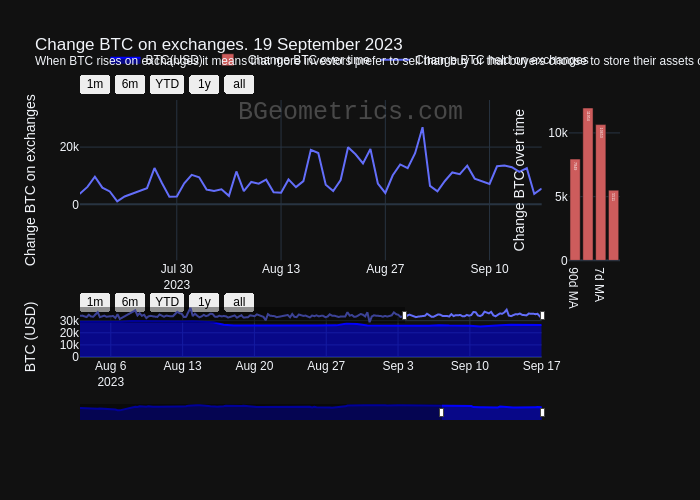
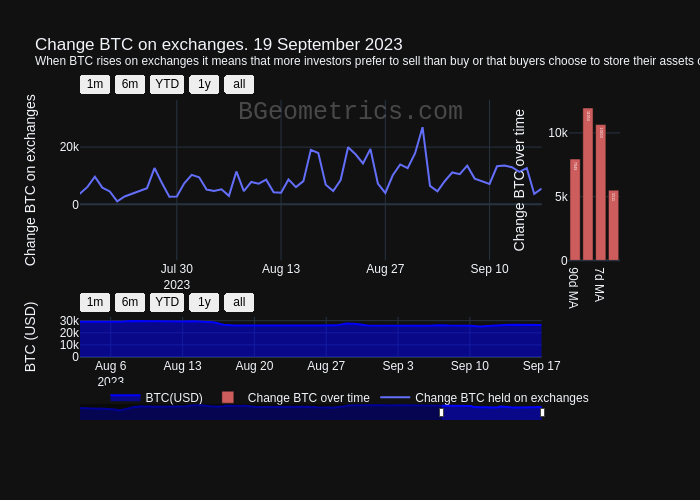
daily

diff --git a/reports/bitcoin_ex_change_held_g.html b/reports/bitcoin_ex_change_held_g.html
@@ -1,2 +1,2 @@
 <div>                        <script type="text/javascript">window.PlotlyConfig = {MathJaxConfig: 'local'};</script>
-        <script charset="utf-8" src="https://cdn.plot.ly/plotly-2.24.1.min.js"></script>                <div id="b3dcbfd8-20d9-45b3-9ce2-d98115b88011" class="plotly-graph-div" style="height:100%; width:100%;"></div>            <script type="text/javascript">                                    window.PLOTLYENV=window.PLOTLYENV || {};                                    if (document.getElementById("b3dcbfd8-20d9-45b3-9ce2-d98115b88011")) {                    Plotly.newPlot(                        "b3dcbfd8-20d9-45b3-9ce2-d98115b88011",                        [{"mode":"lines","name":"Change BTC held on exchanges","x":["2023-02-20","2023-02-21","2023-02-22","2023-02-23","2023-02-24","2023-02-25","2023-02-26","2023-02-27","2023-02-28","2023-03-01","2023-03-02","2023-03-03","2023-03-04","2023-03-05","2023-03-06","2023-03-07","2023-03-08","2023-03-09","2023-03-10","2023-03-17","2023-03-18","2023-03-19","2023-03-20","2023-03-21","2023-03-22","2023-03-23","2023-03-24","2023-03-25","2023-03-27","2023-03-28","2023-03-29","2023-03-30","2023-03-31","2023-04-01","2023-04-02","2023-04-03","2023-04-04","2023-04-05","2023-04-06","2023-04-07","2023-04-08","2023-04-09","2023-04-10","2023-04-11","2023-04-12","2023-04-13","2023-04-14","2023-04-15","2023-04-16","2023-04-17","2023-04-18","2023-04-19","2023-04-20","2023-04-21","2023-04-22","2023-04-23","2023-04-24","2023-04-25","2023-04-26","2023-04-27","2023-04-28","2023-04-29","2023-04-30","2023-05-01","2023-05-02","2023-05-03","2023-05-04","2023-05-05","2023-05-06","2023-05-07","2023-05-08","2023-05-09","2023-05-10","2023-05-11","2023-05-12","2023-05-13","2023-05-14","2023-05-15","2023-05-16","2023-05-17","2023-05-18","2023-05-19","2023-05-20","2023-05-21","2023-05-22","2023-05-23","2023-05-24","2023-05-25","2023-05-26","2023-05-27","2023-05-28","2023-05-29","2023-05-30","2023-05-31","2023-06-01","2023-06-02","2023-06-03","2023-06-04","2023-06-05","2023-06-06","2023-06-07","2023-06-08","2023-06-09","2023-06-10","2023-06-11","2023-06-12","2023-06-13","2023-06-14","2023-06-15","2023-06-16","2023-06-17","2023-06-18","2023-06-19","2023-06-20","2023-06-21","2023-06-22","2023-06-23","2023-06-24","2023-06-25","2023-06-26","2023-06-27","2023-06-28","2023-06-29","2023-06-30","2023-07-01","2023-07-02","2023-07-03","2023-07-04","2023-07-05","2023-07-06","2023-07-07","2023-07-08","2023-07-09","2023-07-10","2023-07-11","2023-07-12","2023-07-13","2023-07-14","2023-07-15","2023-07-16","2023-07-17","2023-07-18","2023-07-19","2023-07-20","2023-07-21","2023-07-22","2023-07-23","2023-07-26","2023-07-27","2023-07-28","2023-07-29","2023-07-30","2023-07-31","2023-08-01","2023-08-02","2023-08-03","2023-08-04","2023-08-05","2023-08-06","2023-08-07","2023-08-08","2023-08-09","2023-08-10","2023-08-11","2023-08-12","2023-08-13","2023-08-14","2023-08-15","2023-08-16","2023-08-17","2023-08-18","2023-08-19","2023-08-20","2023-08-21","2023-08-22","2023-08-23","2023-08-24","2023-08-25","2023-08-26","2023-08-27","2023-08-28","2023-08-29","2023-08-30","2023-08-31","2023-09-01","2023-09-02","2023-09-03","2023-09-04","2023-09-05","2023-09-06","2023-09-07","2023-09-08","2023-09-10","2023-09-11","2023-09-12","2023-09-13","2023-09-14","2023-09-15","2023-09-16","2023-09-17"],"y":[5722,6270,3678,1191,9278,3140,2488,9933,18496,911,3222,6138,2284,4274,4302,4739,-1738,10979,-5412,24616,7012,14682,5628,9233,-2466,3772,5538,3812,1691,10042,4944,2303,6298,4383,3750,3758,13056,19636,14679,13132,1176,1925,18903,33641,4471,13088,6092,397,3604,8847,4406,7050,13028,11785,2746,1885,6012,3461,4828,4050,-483,1438,3326,6828,-787,2696,7541,-470,1444,901,7251,5849,4300,10582,7004,3240,1962,-10130,11378,6062,5989,4386,794,2156,4220,4142,7072,8436,449,11906,1941,906,10122,7111,5253,6405,3419,153,6607,4322,7146,3627,5376,5407,705,2944,10752,6174,6183,2463,1537,3260,2264,3255,18305,6183,8499,2217,2958,7362,11979,9200,3455,17972,-16766,3074,7505,5771,5839,5032,2454,5183,3117,3821,7059,17575,11353,9062,1524,3457,3766,6084,9663,5837,4511,1057,2735,5647,12674,7455,2624,2740,7363,10279,9471,5177,4633,5263,2965,11480,4582,7809,7237,8622,4241,4050,8706,6024,8109,19037,17906,6882,4627,8491,19941,17477,14265,19343,7254,3964,10153,13947,12656,17876,26938,6438,4524,8159,11138,10554,13502,8993,7124,13300,13545,12964,11373,12635,3636,5511],"type":"scatter","xaxis":"x","yaxis":"y"},{"marker":{"color":"indianred"},"name":"Change BTC over time","text":["7949","11954","10653","5511"],"x":["90d MA","30d MA","7d MA","Today"],"y":[7949,11954,10653,5511],"type":"bar","xaxis":"x2","yaxis":"y2"},{"fill":"tonexty","marker":{"color":"blue"},"mode":"lines","name":"BTC(USD)","x":["2023-02-20","2023-02-21","2023-02-22","2023-02-23","2023-02-24","2023-02-25","2023-02-26","2023-02-27","2023-02-28","2023-03-01","2023-03-02","2023-03-03","2023-03-04","2023-03-05","2023-03-06","2023-03-07","2023-03-08","2023-03-09","2023-03-10","2023-03-17","2023-03-18","2023-03-19","2023-03-20","2023-03-21","2023-03-22","2023-03-23","2023-03-24","2023-03-25","2023-03-27","2023-03-28","2023-03-29","2023-03-30","2023-03-31","2023-04-01","2023-04-02","2023-04-03","2023-04-04","2023-04-05","2023-04-06","2023-04-07","2023-04-08","2023-04-09","2023-04-10","2023-04-11","2023-04-12","2023-04-13","2023-04-14","2023-04-15","2023-04-16","2023-04-17","2023-04-18","2023-04-19","2023-04-20","2023-04-21","2023-04-22","2023-04-23","2023-04-24","2023-04-25","2023-04-26","2023-04-27","2023-04-28","2023-04-29","2023-04-30","2023-05-01","2023-05-02","2023-05-03","2023-05-04","2023-05-05","2023-05-06","2023-05-07","2023-05-08","2023-05-09","2023-05-10","2023-05-11","2023-05-12","2023-05-13","2023-05-14","2023-05-15","2023-05-16","2023-05-17","2023-05-18","2023-05-19","2023-05-20","2023-05-21","2023-05-22","2023-05-23","2023-05-24","2023-05-25","2023-05-26","2023-05-27","2023-05-28","2023-05-29","2023-05-30","2023-05-31","2023-06-01","2023-06-02","2023-06-03","2023-06-04","2023-06-05","2023-06-06","2023-06-07","2023-06-08","2023-06-09","2023-06-10","2023-06-11","2023-06-12","2023-06-13","2023-06-14","2023-06-15","2023-06-16","2023-06-17","2023-06-18","2023-06-19","2023-06-20","2023-06-21","2023-06-22","2023-06-23","2023-06-24","2023-06-25","2023-06-26","2023-06-27","2023-06-28","2023-06-29","2023-06-30","2023-07-01","2023-07-02","2023-07-03","2023-07-04","2023-07-05","2023-07-06","2023-07-07","2023-07-08","2023-07-09","2023-07-10","2023-07-11","2023-07-12","2023-07-13","2023-07-14","2023-07-15","2023-07-16","2023-07-17","2023-07-18","2023-07-19","2023-07-20","2023-07-21","2023-07-22","2023-07-23","2023-07-26","2023-07-27","2023-07-28","2023-07-29","2023-07-30","2023-07-31","2023-08-01","2023-08-02","2023-08-03","2023-08-04","2023-08-05","2023-08-06","2023-08-07","2023-08-08","2023-08-09","2023-08-10","2023-08-11","2023-08-12","2023-08-13","2023-08-14","2023-08-15","2023-08-16","2023-08-17","2023-08-18","2023-08-19","2023-08-20","2023-08-21","2023-08-22","2023-08-23","2023-08-24","2023-08-25","2023-08-26","2023-08-27","2023-08-28","2023-08-29","2023-08-30","2023-08-31","2023-09-01","2023-09-02","2023-09-03","2023-09-04","2023-09-05","2023-09-06","2023-09-07","2023-09-08","2023-09-10","2023-09-11","2023-09-12","2023-09-13","2023-09-14","2023-09-15","2023-09-16","2023-09-17"],"y":[24797.8430359439,24400.3893898305,24163.7389812975,23910.0342104033,23175.8242036821,23159.8154403857,23542.0964281122,23504.1894178843,23145.9491277031,23610.6590902981,23470.0254815897,22350.0962340736,22334.2852638808,22419.8171390999,22414.7033056692,22174.6484725307,21701.3846227352,20349.8141732905,19951.37,27450.6282933957,26985.7359915254,28185.2043319696,27834.3361090006,28172.7950558153,27341.5571297487,28387.8897495617,27464.1249453536,27518.62,27154.9963702513,27283.9634029807,28389.2917784921,28021.5583009936,28514.6813062537,28494.5638863238,28161.9980362361,27850.9799436002,28113.9585187025,28190.3116063705,28049.0744763296,27936.8042609585,27964.0512498539,28357.8072703098,29687.5651846873,30247.0959193454,29913.0035463472,30370.82207218,30458.9700414962,30342.0591084161,30312.9308533022,29469.5050727645,30366.8723813559,28796.7440952659,28251.2763790181,27292.0211052016,27827.5475920514,27604.6855742256,27520.1996729982,28302.6942180012,28384.2340333139,29465.5514272355,29350.811886616,29221.5145075979,29362.0867974868,28114.9531873174,28690.5809959088,29045.0427735243,28855.8574465225,29552.9695236704,28899.4629602572,28761.738434249,27727.2854091175,27642.4281092928,27646.004902104,26986.271065751,26773.3443591467,26841.3982913501,26918.261597896,27231.6216052016,27025.7181864407,27401.0440610754,26843.2350938048,26889.503631502,27100.8582878434,26777.0977831677,26858.7370637054,27226.8558763881,26341.4306446522,26484.8359234366,26720.3838071303,26854.5403702513,28097.5211259497,27765.0728693746,27712.4915844535,27217.6832580362,26825.3713451198,27255.2279941555,27079.4084643483,27158.25456955,25785.8514842198,27213.7705187025,26339.5790292227,26521.693600526,26470.6775780245,25863.2138506721,25906.8281516657,25906.7519354179,25880.8599734074,25097.5853796026,25559.1433293396,26331.8200943892,26514.1713495032,26353.962682934,26778.0634415547,28305.4204573349,30099.5153509643,29952.5112866745,30638.3537644652,30549.0162872589,30467.4403705435,30255.8861241964,30656.2,30104.0432717709,30460.792978083,30484.503257744,30581.6889655172,30594.2164736996,31135.3575993571,30799.9474558738,30497.8221282876,29979.7298094681,30329.8829786674,30263.6196341321,30163.2210563998,30394.6555806546,30616.247094097,30385.6087852133,31434.7354704851,30310.6720204559,30290.8905958504,30249.7729658095,30143.7462744009,29835.7474076563,29913.0294646406,29805.6065707189,29919.6934921099,29726.0096271186,29882.43,29361.5917580362,29201.6865175336,29316.3130751023,29360.376179135,29262.8367337814,29219.8201887785,29499.5875385739,29143.1519620105,29192.3448617767,29057.2532437171,29053.0956975453,29048.0433275862,29164.3585873758,29779.511383986,29582.9442375804,29430.1599117475,29399.784739626,29415.733902104,29286.1176110462,29408.9717127411,29167.59721654,28754.2924079486,26660.5627264757,26037.3658474576,26093.981808007,26176.4721642315,26128.9050160725,25978.2096914085,26452.1935882525,26126.7943331385,26040.881255114,26006.1740800701,26086.3612594974,26103.2765730567,27672.2221306254,27298.997779661,25954.8665935126,25802.7885298071,25868.2960976037,25962.5475689655,25799.5256870251,25782.3622200468,25754.7902676797,26210.6045637054,25904.6982127411,25856.26,25135.0393781414,25859.7018068381,26226.8667524839,26556.056943308,26672.6160818235,26555.6361031561,26502.4321189363],"type":"scatter","xaxis":"x3","yaxis":"y3"}],                        {"template":{"data":{"barpolar":[{"marker":{"line":{"color":"rgb(17,17,17)","width":0.5},"pattern":{"fillmode":"overlay","size":10,"solidity":0.2}},"type":"barpolar"}],"bar":[{"error_x":{"color":"#f2f5fa"},"error_y":{"color":"#f2f5fa"},"marker":{"line":{"color":"rgb(17,17,17)","width":0.5},"pattern":{"fillmode":"overlay","size":10,"solidity":0.2}},"type":"bar"}],"carpet":[{"aaxis":{"endlinecolor":"#A2B1C6","gridcolor":"#506784","linecolor":"#506784","minorgridcolor":"#506784","startlinecolor":"#A2B1C6"},"baxis":{"endlinecolor":"#A2B1C6","gridcolor":"#506784","linecolor":"#506784","minorgridcolor":"#506784","startlinecolor":"#A2B1C6"},"type":"carpet"}],"choropleth":[{"colorbar":{"outlinewidth":0,"ticks":""},"type":"choropleth"}],"contourcarpet":[{"colorbar":{"outlinewidth":0,"ticks":""},"type":"contourcarpet"}],"contour":[{"colorbar":{"outlinewidth":0,"ticks":""},"colorscale":[[0.0,"#0d0887"],[0.1111111111111111,"#46039f"],[0.2222222222222222,"#7201a8"],[0.3333333333333333,"#9c179e"],[0.4444444444444444,"#bd3786"],[0.5555555555555556,"#d8576b"],[0.6666666666666666,"#ed7953"],[0.7777777777777778,"#fb9f3a"],[0.8888888888888888,"#fdca26"],[1.0,"#f0f921"]],"type":"contour"}],"heatmapgl":[{"colorbar":{"outlinewidth":0,"ticks":""},"colorscale":[[0.0,"#0d0887"],[0.1111111111111111,"#46039f"],[0.2222222222222222,"#7201a8"],[0.3333333333333333,"#9c179e"],[0.4444444444444444,"#bd3786"],[0.5555555555555556,"#d8576b"],[0.6666666666666666,"#ed7953"],[0.7777777777777778,"#fb9f3a"],[0.8888888888888888,"#fdca26"],[1.0,"#f0f921"]],"type":"heatmapgl"}],"heatmap":[{"colorbar":{"outlinewidth":0,"ticks":""},"colorscale":[[0.0,"#0d0887"],[0.1111111111111111,"#46039f"],[0.2222222222222222,"#7201a8"],[0.3333333333333333,"#9c179e"],[0.4444444444444444,"#bd3786"],[0.5555555555555556,"#d8576b"],[0.6666666666666666,"#ed7953"],[0.7777777777777778,"#fb9f3a"],[0.8888888888888888,"#fdca26"],[1.0,"#f0f921"]],"type":"heatmap"}],"histogram2dcontour":[{"colorbar":{"outlinewidth":0,"ticks":""},"colorscale":[[0.0,"#0d0887"],[0.1111111111111111,"#46039f"],[0.2222222222222222,"#7201a8"],[0.3333333333333333,"#9c179e"],[0.4444444444444444,"#bd3786"],[0.5555555555555556,"#d8576b"],[0.6666666666666666,"#ed7953"],[0.7777777777777778,"#fb9f3a"],[0.8888888888888888,"#fdca26"],[1.0,"#f0f921"]],"type":"histogram2dcontour"}],"histogram2d":[{"colorbar":{"outlinewidth":0,"ticks":""},"colorscale":[[0.0,"#0d0887"],[0.1111111111111111,"#46039f"],[0.2222222222222222,"#7201a8"],[0.3333333333333333,"#9c179e"],[0.4444444444444444,"#bd3786"],[0.5555555555555556,"#d8576b"],[0.6666666666666666,"#ed7953"],[0.7777777777777778,"#fb9f3a"],[0.8888888888888888,"#fdca26"],[1.0,"#f0f921"]],"type":"histogram2d"}],"histogram":[{"marker":{"pattern":{"fillmode":"overlay","size":10,"solidity":0.2}},"type":"histogram"}],"mesh3d":[{"colorbar":{"outlinewidth":0,"ticks":""},"type":"mesh3d"}],"parcoords":[{"line":{"colorbar":{"outlinewidth":0,"ticks":""}},"type":"parcoords"}],"pie":[{"automargin":true,"type":"pie"}],"scatter3d":[{"line":{"colorbar":{"outlinewidth":0,"ticks":""}},"marker":{"colorbar":{"outlinewidth":0,"ticks":""}},"type":"scatter3d"}],"scattercarpet":[{"marker":{"colorbar":{"outlinewidth":0,"ticks":""}},"type":"scattercarpet"}],"scattergeo":[{"marker":{"colorbar":{"outlinewidth":0,"ticks":""}},"type":"scattergeo"}],"scattergl":[{"marker":{"line":{"color":"#283442"}},"type":"scattergl"}],"scattermapbox":[{"marker":{"colorbar":{"outlinewidth":0,"ticks":""}},"type":"scattermapbox"}],"scatterpolargl":[{"marker":{"colorbar":{"outlinewidth":0,"ticks":""}},"type":"scatterpolargl"}],"scatterpolar":[{"marker":{"colorbar":{"outlinewidth":0,"ticks":""}},"type":"scatterpolar"}],"scatter":[{"marker":{"line":{"color":"#283442"}},"type":"scatter"}],"scatterternary":[{"marker":{"colorbar":{"outlinewidth":0,"ticks":""}},"type":"scatterternary"}],"surface":[{"colorbar":{"outlinewidth":0,"ticks":""},"colorscale":[[0.0,"#0d0887"],[0.1111111111111111,"#46039f"],[0.2222222222222222,"#7201a8"],[0.3333333333333333,"#9c179e"],[0.4444444444444444,"#bd3786"],[0.5555555555555556,"#d8576b"],[0.6666666666666666,"#ed7953"],[0.7777777777777778,"#fb9f3a"],[0.8888888888888888,"#fdca26"],[1.0,"#f0f921"]],"type":"surface"}],"table":[{"cells":{"fill":{"color":"#506784"},"line":{"color":"rgb(17,17,17)"}},"header":{"fill":{"color":"#2a3f5f"},"line":{"color":"rgb(17,17,17)"}},"type":"table"}]},"layout":{"annotationdefaults":{"arrowcolor":"#f2f5fa","arrowhead":0,"arrowwidth":1},"autotypenumbers":"strict","coloraxis":{"colorbar":{"outlinewidth":0,"ticks":""}},"colorscale":{"diverging":[[0,"#8e0152"],[0.1,"#c51b7d"],[0.2,"#de77ae"],[0.3,"#f1b6da"],[0.4,"#fde0ef"],[0.5,"#f7f7f7"],[0.6,"#e6f5d0"],[0.7,"#b8e186"],[0.8,"#7fbc41"],[0.9,"#4d9221"],[1,"#276419"]],"sequential":[[0.0,"#0d0887"],[0.1111111111111111,"#46039f"],[0.2222222222222222,"#7201a8"],[0.3333333333333333,"#9c179e"],[0.4444444444444444,"#bd3786"],[0.5555555555555556,"#d8576b"],[0.6666666666666666,"#ed7953"],[0.7777777777777778,"#fb9f3a"],[0.8888888888888888,"#fdca26"],[1.0,"#f0f921"]],"sequentialminus":[[0.0,"#0d0887"],[0.1111111111111111,"#46039f"],[0.2222222222222222,"#7201a8"],[0.3333333333333333,"#9c179e"],[0.4444444444444444,"#bd3786"],[0.5555555555555556,"#d8576b"],[0.6666666666666666,"#ed7953"],[0.7777777777777778,"#fb9f3a"],[0.8888888888888888,"#fdca26"],[1.0,"#f0f921"]]},"colorway":["#636efa","#EF553B","#00cc96","#ab63fa","#FFA15A","#19d3f3","#FF6692","#B6E880","#FF97FF","#FECB52"],"font":{"color":"#f2f5fa"},"geo":{"bgcolor":"rgb(17,17,17)","lakecolor":"rgb(17,17,17)","landcolor":"rgb(17,17,17)","showlakes":true,"showland":true,"subunitcolor":"#506784"},"hoverlabel":{"align":"left"},"hovermode":"closest","mapbox":{"style":"dark"},"paper_bgcolor":"rgb(17,17,17)","plot_bgcolor":"rgb(17,17,17)","polar":{"angularaxis":{"gridcolor":"#506784","linecolor":"#506784","ticks":""},"bgcolor":"rgb(17,17,17)","radialaxis":{"gridcolor":"#506784","linecolor":"#506784","ticks":""}},"scene":{"xaxis":{"backgroundcolor":"rgb(17,17,17)","gridcolor":"#506784","gridwidth":2,"linecolor":"#506784","showbackground":true,"ticks":"","zerolinecolor":"#C8D4E3"},"yaxis":{"backgroundcolor":"rgb(17,17,17)","gridcolor":"#506784","gridwidth":2,"linecolor":"#506784","showbackground":true,"ticks":"","zerolinecolor":"#C8D4E3"},"zaxis":{"backgroundcolor":"rgb(17,17,17)","gridcolor":"#506784","gridwidth":2,"linecolor":"#506784","showbackground":true,"ticks":"","zerolinecolor":"#C8D4E3"}},"shapedefaults":{"line":{"color":"#f2f5fa"}},"sliderdefaults":{"bgcolor":"#C8D4E3","bordercolor":"rgb(17,17,17)","borderwidth":1,"tickwidth":0},"ternary":{"aaxis":{"gridcolor":"#506784","linecolor":"#506784","ticks":""},"baxis":{"gridcolor":"#506784","linecolor":"#506784","ticks":""},"bgcolor":"rgb(17,17,17)","caxis":{"gridcolor":"#506784","linecolor":"#506784","ticks":""}},"title":{"x":0.05},"updatemenudefaults":{"bgcolor":"#506784","borderwidth":0},"xaxis":{"automargin":true,"gridcolor":"#283442","linecolor":"#506784","ticks":"","title":{"standoff":15},"zerolinecolor":"#283442","zerolinewidth":2},"yaxis":{"automargin":true,"gridcolor":"#283442","linecolor":"#506784","ticks":"","title":{"standoff":15},"zerolinecolor":"#283442","zerolinewidth":2}}},"xaxis":{"anchor":"y","domain":[0.0,0.855],"rangeselector":{"font":{"color":"black"},"buttons":[{"count":1,"label":"1m","step":"month","stepmode":"backward"},{"count":6,"label":"6m","step":"month","stepmode":"backward"},{"count":1,"label":"YTD","step":"year","stepmode":"todate"},{"count":1,"label":"1y","step":"year","stepmode":"backward"},{"step":"all"}]},"rangeslider":{"visible":true,"thickness":0.05},"range":["2023-07-17","2023-09-17"]},"yaxis":{"anchor":"x","domain":[0.376,1.0],"title":{"text":"Change BTC on exchanges"},"side":"left"},"xaxis2":{"anchor":"y2","domain":[0.905,1.0]},"yaxis2":{"anchor":"x2","domain":[0.376,1.0],"title":{"text":"Change BTC over time"},"side":"left"},"xaxis3":{"anchor":"y3","domain":[0.0,0.855],"rangeselector":{"font":{"color":"black"},"buttons":[{"count":1,"label":"1m","step":"month","stepmode":"backward"},{"count":6,"label":"6m","step":"month","stepmode":"backward"},{"count":1,"label":"YTD","step":"year","stepmode":"todate"},{"count":1,"label":"1y","step":"year","stepmode":"backward"},{"step":"all"}]},"rangeslider":{"visible":true,"thickness":0.05},"range":["2023-08-03","2023-09-17"]},"yaxis3":{"anchor":"x3","domain":[0.0,0.15600000000000003],"title":{"text":"BTC (USD)"},"side":"left"},"xaxis4":{"anchor":"y4","domain":[0.905,1.0]},"yaxis4":{"anchor":"x4","domain":[0.0,0.15600000000000003]},"annotations":[{"font":{"color":"grey","family":"Courier New, monospace","size":25},"opacity":0.5,"showarrow":false,"text":"\u003ca href='https:\u002f\u002fcharts.bgeometrics.com'\u003eBGeometrics.com\u003c\u002fa\u003e","x":0.5,"xanchor":"center","xref":"paper","y":0.95,"yanchor":"middle","yref":"paper"}],"legend":{"orientation":"h","x":0.5,"xanchor":"center"},"title":{"text":"Change BTC on exchanges. 19 September 2023\u003cbr\u003e\u003csup\u003eWhen BTC rises on exchanges it means that more investors prefer to sell than buy or that buyers choose to store their assets on exchanges.\u003c\u002fsup\u003e"},"plot_bgcolor":"rgba(0, 0, 0, 0)"},                        {"responsive": true}                    )                };                            </script>        </div>
+        <script charset="utf-8" src="https://cdn.plot.ly/plotly-2.24.1.min.js"></script>                <div id="560bbb13-3abd-487d-9b3f-f98b40661f9d" class="plotly-graph-div" style="height:100%; width:100%;"></div>            <script type="text/javascript">                                    window.PLOTLYENV=window.PLOTLYENV || {};                                    if (document.getElementById("560bbb13-3abd-487d-9b3f-f98b40661f9d")) {                    Plotly.newPlot(                        "560bbb13-3abd-487d-9b3f-f98b40661f9d",                        [{"mode":"lines","name":"Change BTC held on exchanges","x":["2023-02-20","2023-02-21","2023-02-22","2023-02-23","2023-02-24","2023-02-25","2023-02-26","2023-02-27","2023-02-28","2023-03-01","2023-03-02","2023-03-03","2023-03-04","2023-03-05","2023-03-06","2023-03-07","2023-03-08","2023-03-09","2023-03-10","2023-03-17","2023-03-18","2023-03-19","2023-03-20","2023-03-21","2023-03-22","2023-03-23","2023-03-24","2023-03-25","2023-03-27","2023-03-28","2023-03-29","2023-03-30","2023-03-31","2023-04-01","2023-04-02","2023-04-03","2023-04-04","2023-04-05","2023-04-06","2023-04-07","2023-04-08","2023-04-09","2023-04-10","2023-04-11","2023-04-12","2023-04-13","2023-04-14","2023-04-15","2023-04-16","2023-04-17","2023-04-18","2023-04-19","2023-04-20","2023-04-21","2023-04-22","2023-04-23","2023-04-24","2023-04-25","2023-04-26","2023-04-27","2023-04-28","2023-04-29","2023-04-30","2023-05-01","2023-05-02","2023-05-03","2023-05-04","2023-05-05","2023-05-06","2023-05-07","2023-05-08","2023-05-09","2023-05-10","2023-05-11","2023-05-12","2023-05-13","2023-05-14","2023-05-15","2023-05-16","2023-05-17","2023-05-18","2023-05-19","2023-05-20","2023-05-21","2023-05-22","2023-05-23","2023-05-24","2023-05-25","2023-05-26","2023-05-27","2023-05-28","2023-05-29","2023-05-30","2023-05-31","2023-06-01","2023-06-02","2023-06-03","2023-06-04","2023-06-05","2023-06-06","2023-06-07","2023-06-08","2023-06-09","2023-06-10","2023-06-11","2023-06-12","2023-06-13","2023-06-14","2023-06-15","2023-06-16","2023-06-17","2023-06-18","2023-06-19","2023-06-20","2023-06-21","2023-06-22","2023-06-23","2023-06-24","2023-06-25","2023-06-26","2023-06-27","2023-06-28","2023-06-29","2023-06-30","2023-07-01","2023-07-02","2023-07-03","2023-07-04","2023-07-05","2023-07-06","2023-07-07","2023-07-08","2023-07-09","2023-07-10","2023-07-11","2023-07-12","2023-07-13","2023-07-14","2023-07-15","2023-07-16","2023-07-17","2023-07-18","2023-07-19","2023-07-20","2023-07-21","2023-07-22","2023-07-23","2023-07-26","2023-07-27","2023-07-28","2023-07-29","2023-07-30","2023-07-31","2023-08-01","2023-08-02","2023-08-03","2023-08-04","2023-08-05","2023-08-06","2023-08-07","2023-08-08","2023-08-09","2023-08-10","2023-08-11","2023-08-12","2023-08-13","2023-08-14","2023-08-15","2023-08-16","2023-08-17","2023-08-18","2023-08-19","2023-08-20","2023-08-21","2023-08-22","2023-08-23","2023-08-24","2023-08-25","2023-08-26","2023-08-27","2023-08-28","2023-08-29","2023-08-30","2023-08-31","2023-09-01","2023-09-02","2023-09-03","2023-09-04","2023-09-05","2023-09-06","2023-09-07","2023-09-08","2023-09-10","2023-09-11","2023-09-12","2023-09-13","2023-09-14","2023-09-15","2023-09-16","2023-09-17"],"y":[5722,6270,3678,1191,9278,3140,2488,9933,18496,911,3222,6138,2284,4274,4302,4739,-1738,10979,-5412,24616,7012,14682,5628,9233,-2466,3772,5538,3812,1691,10042,4944,2303,6298,4383,3750,3758,13056,19636,14679,13132,1176,1925,18903,33641,4471,13088,6092,397,3604,8847,4406,7050,13028,11785,2746,1885,6012,3461,4828,4050,-483,1438,3326,6828,-787,2696,7541,-470,1444,901,7251,5849,4300,10582,7004,3240,1962,-10130,11378,6062,5989,4386,794,2156,4220,4142,7072,8436,449,11906,1941,906,10122,7111,5253,6405,3419,153,6607,4322,7146,3627,5376,5407,705,2944,10752,6174,6183,2463,1537,3260,2264,3255,18305,6183,8499,2217,2958,7362,11979,9200,3455,17972,-16766,3074,7505,5771,5839,5032,2454,5183,3117,3821,7059,17575,11353,9062,1524,3457,3766,6084,9663,5837,4511,1057,2735,5647,12674,7455,2624,2740,7363,10279,9471,5177,4633,5263,2965,11480,4582,7809,7237,8622,4241,4050,8706,6024,8109,19037,17906,6882,4627,8491,19941,17477,14265,19343,7254,3964,10153,13947,12656,17876,26938,6438,4524,8159,11138,10554,13502,8993,7124,13300,13545,12964,11373,12635,3636,5511],"type":"scatter","xaxis":"x","yaxis":"y"},{"marker":{"color":"indianred"},"name":"Change BTC over time","text":["7949","11954","10653","5511"],"x":["90d MA","30d MA","7d MA","Today"],"y":[7949,11954,10653,5511],"type":"bar","xaxis":"x2","yaxis":"y2"},{"fill":"tonexty","marker":{"color":"blue"},"mode":"lines","name":"BTC(USD)","x":["2023-02-20","2023-02-21","2023-02-22","2023-02-23","2023-02-24","2023-02-25","2023-02-26","2023-02-27","2023-02-28","2023-03-01","2023-03-02","2023-03-03","2023-03-04","2023-03-05","2023-03-06","2023-03-07","2023-03-08","2023-03-09","2023-03-10","2023-03-17","2023-03-18","2023-03-19","2023-03-20","2023-03-21","2023-03-22","2023-03-23","2023-03-24","2023-03-25","2023-03-27","2023-03-28","2023-03-29","2023-03-30","2023-03-31","2023-04-01","2023-04-02","2023-04-03","2023-04-04","2023-04-05","2023-04-06","2023-04-07","2023-04-08","2023-04-09","2023-04-10","2023-04-11","2023-04-12","2023-04-13","2023-04-14","2023-04-15","2023-04-16","2023-04-17","2023-04-18","2023-04-19","2023-04-20","2023-04-21","2023-04-22","2023-04-23","2023-04-24","2023-04-25","2023-04-26","2023-04-27","2023-04-28","2023-04-29","2023-04-30","2023-05-01","2023-05-02","2023-05-03","2023-05-04","2023-05-05","2023-05-06","2023-05-07","2023-05-08","2023-05-09","2023-05-10","2023-05-11","2023-05-12","2023-05-13","2023-05-14","2023-05-15","2023-05-16","2023-05-17","2023-05-18","2023-05-19","2023-05-20","2023-05-21","2023-05-22","2023-05-23","2023-05-24","2023-05-25","2023-05-26","2023-05-27","2023-05-28","2023-05-29","2023-05-30","2023-05-31","2023-06-01","2023-06-02","2023-06-03","2023-06-04","2023-06-05","2023-06-06","2023-06-07","2023-06-08","2023-06-09","2023-06-10","2023-06-11","2023-06-12","2023-06-13","2023-06-14","2023-06-15","2023-06-16","2023-06-17","2023-06-18","2023-06-19","2023-06-20","2023-06-21","2023-06-22","2023-06-23","2023-06-24","2023-06-25","2023-06-26","2023-06-27","2023-06-28","2023-06-29","2023-06-30","2023-07-01","2023-07-02","2023-07-03","2023-07-04","2023-07-05","2023-07-06","2023-07-07","2023-07-08","2023-07-09","2023-07-10","2023-07-11","2023-07-12","2023-07-13","2023-07-14","2023-07-15","2023-07-16","2023-07-17","2023-07-18","2023-07-19","2023-07-20","2023-07-21","2023-07-22","2023-07-23","2023-07-26","2023-07-27","2023-07-28","2023-07-29","2023-07-30","2023-07-31","2023-08-01","2023-08-02","2023-08-03","2023-08-04","2023-08-05","2023-08-06","2023-08-07","2023-08-08","2023-08-09","2023-08-10","2023-08-11","2023-08-12","2023-08-13","2023-08-14","2023-08-15","2023-08-16","2023-08-17","2023-08-18","2023-08-19","2023-08-20","2023-08-21","2023-08-22","2023-08-23","2023-08-24","2023-08-25","2023-08-26","2023-08-27","2023-08-28","2023-08-29","2023-08-30","2023-08-31","2023-09-01","2023-09-02","2023-09-03","2023-09-04","2023-09-05","2023-09-06","2023-09-07","2023-09-08","2023-09-10","2023-09-11","2023-09-12","2023-09-13","2023-09-14","2023-09-15","2023-09-16","2023-09-17"],"y":[24797.8430359439,24400.3893898305,24163.7389812975,23910.0342104033,23175.8242036821,23159.8154403857,23542.0964281122,23504.1894178843,23145.9491277031,23610.6590902981,23470.0254815897,22350.0962340736,22334.2852638808,22419.8171390999,22414.7033056692,22174.6484725307,21701.3846227352,20349.8141732905,19951.37,27450.6282933957,26985.7359915254,28185.2043319696,27834.3361090006,28172.7950558153,27341.5571297487,28387.8897495617,27464.1249453536,27518.62,27154.9963702513,27283.9634029807,28389.2917784921,28021.5583009936,28514.6813062537,28494.5638863238,28161.9980362361,27850.9799436002,28113.9585187025,28190.3116063705,28049.0744763296,27936.8042609585,27964.0512498539,28357.8072703098,29687.5651846873,30247.0959193454,29913.0035463472,30370.82207218,30458.9700414962,30342.0591084161,30312.9308533022,29469.5050727645,30366.8723813559,28796.7440952659,28251.2763790181,27292.0211052016,27827.5475920514,27604.6855742256,27520.1996729982,28302.6942180012,28384.2340333139,29465.5514272355,29350.811886616,29221.5145075979,29362.0867974868,28114.9531873174,28690.5809959088,29045.0427735243,28855.8574465225,29552.9695236704,28899.4629602572,28761.738434249,27727.2854091175,27642.4281092928,27646.004902104,26986.271065751,26773.3443591467,26841.3982913501,26918.261597896,27231.6216052016,27025.7181864407,27401.0440610754,26843.2350938048,26889.503631502,27100.8582878434,26777.0977831677,26858.7370637054,27226.8558763881,26341.4306446522,26484.8359234366,26720.3838071303,26854.5403702513,28097.5211259497,27765.0728693746,27712.4915844535,27217.6832580362,26825.3713451198,27255.2279941555,27079.4084643483,27158.25456955,25785.8514842198,27213.7705187025,26339.5790292227,26521.693600526,26470.6775780245,25863.2138506721,25906.8281516657,25906.7519354179,25880.8599734074,25097.5853796026,25559.1433293396,26331.8200943892,26514.1713495032,26353.962682934,26778.0634415547,28305.4204573349,30099.5153509643,29952.5112866745,30638.3537644652,30549.0162872589,30467.4403705435,30255.8861241964,30656.2,30104.0432717709,30460.792978083,30484.503257744,30581.6889655172,30594.2164736996,31135.3575993571,30799.9474558738,30497.8221282876,29979.7298094681,30329.8829786674,30263.6196341321,30163.2210563998,30394.6555806546,30616.247094097,30385.6087852133,31434.7354704851,30310.6720204559,30290.8905958504,30249.7729658095,30143.7462744009,29835.7474076563,29913.0294646406,29805.6065707189,29919.6934921099,29726.0096271186,29882.43,29361.5917580362,29201.6865175336,29316.3130751023,29360.376179135,29262.8367337814,29219.8201887785,29499.5875385739,29143.1519620105,29192.3448617767,29057.2532437171,29053.0956975453,29048.0433275862,29164.3585873758,29779.511383986,29582.9442375804,29430.1599117475,29399.784739626,29415.733902104,29286.1176110462,29408.9717127411,29167.59721654,28754.2924079486,26660.5627264757,26037.3658474576,26093.981808007,26176.4721642315,26128.9050160725,25978.2096914085,26452.1935882525,26126.7943331385,26040.881255114,26006.1740800701,26086.3612594974,26103.2765730567,27672.2221306254,27298.997779661,25954.8665935126,25802.7885298071,25868.2960976037,25962.5475689655,25799.5256870251,25782.3622200468,25754.7902676797,26210.6045637054,25904.6982127411,25856.26,25135.0393781414,25859.7018068381,26226.8667524839,26556.056943308,26672.6160818235,26555.6361031561,26502.4321189363],"type":"scatter","xaxis":"x3","yaxis":"y3"}],                        {"template":{"data":{"barpolar":[{"marker":{"line":{"color":"rgb(17,17,17)","width":0.5},"pattern":{"fillmode":"overlay","size":10,"solidity":0.2}},"type":"barpolar"}],"bar":[{"error_x":{"color":"#f2f5fa"},"error_y":{"color":"#f2f5fa"},"marker":{"line":{"color":"rgb(17,17,17)","width":0.5},"pattern":{"fillmode":"overlay","size":10,"solidity":0.2}},"type":"bar"}],"carpet":[{"aaxis":{"endlinecolor":"#A2B1C6","gridcolor":"#506784","linecolor":"#506784","minorgridcolor":"#506784","startlinecolor":"#A2B1C6"},"baxis":{"endlinecolor":"#A2B1C6","gridcolor":"#506784","linecolor":"#506784","minorgridcolor":"#506784","startlinecolor":"#A2B1C6"},"type":"carpet"}],"choropleth":[{"colorbar":{"outlinewidth":0,"ticks":""},"type":"choropleth"}],"contourcarpet":[{"colorbar":{"outlinewidth":0,"ticks":""},"type":"contourcarpet"}],"contour":[{"colorbar":{"outlinewidth":0,"ticks":""},"colorscale":[[0.0,"#0d0887"],[0.1111111111111111,"#46039f"],[0.2222222222222222,"#7201a8"],[0.3333333333333333,"#9c179e"],[0.4444444444444444,"#bd3786"],[0.5555555555555556,"#d8576b"],[0.6666666666666666,"#ed7953"],[0.7777777777777778,"#fb9f3a"],[0.8888888888888888,"#fdca26"],[1.0,"#f0f921"]],"type":"contour"}],"heatmapgl":[{"colorbar":{"outlinewidth":0,"ticks":""},"colorscale":[[0.0,"#0d0887"],[0.1111111111111111,"#46039f"],[0.2222222222222222,"#7201a8"],[0.3333333333333333,"#9c179e"],[0.4444444444444444,"#bd3786"],[0.5555555555555556,"#d8576b"],[0.6666666666666666,"#ed7953"],[0.7777777777777778,"#fb9f3a"],[0.8888888888888888,"#fdca26"],[1.0,"#f0f921"]],"type":"heatmapgl"}],"heatmap":[{"colorbar":{"outlinewidth":0,"ticks":""},"colorscale":[[0.0,"#0d0887"],[0.1111111111111111,"#46039f"],[0.2222222222222222,"#7201a8"],[0.3333333333333333,"#9c179e"],[0.4444444444444444,"#bd3786"],[0.5555555555555556,"#d8576b"],[0.6666666666666666,"#ed7953"],[0.7777777777777778,"#fb9f3a"],[0.8888888888888888,"#fdca26"],[1.0,"#f0f921"]],"type":"heatmap"}],"histogram2dcontour":[{"colorbar":{"outlinewidth":0,"ticks":""},"colorscale":[[0.0,"#0d0887"],[0.1111111111111111,"#46039f"],[0.2222222222222222,"#7201a8"],[0.3333333333333333,"#9c179e"],[0.4444444444444444,"#bd3786"],[0.5555555555555556,"#d8576b"],[0.6666666666666666,"#ed7953"],[0.7777777777777778,"#fb9f3a"],[0.8888888888888888,"#fdca26"],[1.0,"#f0f921"]],"type":"histogram2dcontour"}],"histogram2d":[{"colorbar":{"outlinewidth":0,"ticks":""},"colorscale":[[0.0,"#0d0887"],[0.1111111111111111,"#46039f"],[0.2222222222222222,"#7201a8"],[0.3333333333333333,"#9c179e"],[0.4444444444444444,"#bd3786"],[0.5555555555555556,"#d8576b"],[0.6666666666666666,"#ed7953"],[0.7777777777777778,"#fb9f3a"],[0.8888888888888888,"#fdca26"],[1.0,"#f0f921"]],"type":"histogram2d"}],"histogram":[{"marker":{"pattern":{"fillmode":"overlay","size":10,"solidity":0.2}},"type":"histogram"}],"mesh3d":[{"colorbar":{"outlinewidth":0,"ticks":""},"type":"mesh3d"}],"parcoords":[{"line":{"colorbar":{"outlinewidth":0,"ticks":""}},"type":"parcoords"}],"pie":[{"automargin":true,"type":"pie"}],"scatter3d":[{"line":{"colorbar":{"outlinewidth":0,"ticks":""}},"marker":{"colorbar":{"outlinewidth":0,"ticks":""}},"type":"scatter3d"}],"scattercarpet":[{"marker":{"colorbar":{"outlinewidth":0,"ticks":""}},"type":"scattercarpet"}],"scattergeo":[{"marker":{"colorbar":{"outlinewidth":0,"ticks":""}},"type":"scattergeo"}],"scattergl":[{"marker":{"line":{"color":"#283442"}},"type":"scattergl"}],"scattermapbox":[{"marker":{"colorbar":{"outlinewidth":0,"ticks":""}},"type":"scattermapbox"}],"scatterpolargl":[{"marker":{"colorbar":{"outlinewidth":0,"ticks":""}},"type":"scatterpolargl"}],"scatterpolar":[{"marker":{"colorbar":{"outlinewidth":0,"ticks":""}},"type":"scatterpolar"}],"scatter":[{"marker":{"line":{"color":"#283442"}},"type":"scatter"}],"scatterternary":[{"marker":{"colorbar":{"outlinewidth":0,"ticks":""}},"type":"scatterternary"}],"surface":[{"colorbar":{"outlinewidth":0,"ticks":""},"colorscale":[[0.0,"#0d0887"],[0.1111111111111111,"#46039f"],[0.2222222222222222,"#7201a8"],[0.3333333333333333,"#9c179e"],[0.4444444444444444,"#bd3786"],[0.5555555555555556,"#d8576b"],[0.6666666666666666,"#ed7953"],[0.7777777777777778,"#fb9f3a"],[0.8888888888888888,"#fdca26"],[1.0,"#f0f921"]],"type":"surface"}],"table":[{"cells":{"fill":{"color":"#506784"},"line":{"color":"rgb(17,17,17)"}},"header":{"fill":{"color":"#2a3f5f"},"line":{"color":"rgb(17,17,17)"}},"type":"table"}]},"layout":{"annotationdefaults":{"arrowcolor":"#f2f5fa","arrowhead":0,"arrowwidth":1},"autotypenumbers":"strict","coloraxis":{"colorbar":{"outlinewidth":0,"ticks":""}},"colorscale":{"diverging":[[0,"#8e0152"],[0.1,"#c51b7d"],[0.2,"#de77ae"],[0.3,"#f1b6da"],[0.4,"#fde0ef"],[0.5,"#f7f7f7"],[0.6,"#e6f5d0"],[0.7,"#b8e186"],[0.8,"#7fbc41"],[0.9,"#4d9221"],[1,"#276419"]],"sequential":[[0.0,"#0d0887"],[0.1111111111111111,"#46039f"],[0.2222222222222222,"#7201a8"],[0.3333333333333333,"#9c179e"],[0.4444444444444444,"#bd3786"],[0.5555555555555556,"#d8576b"],[0.6666666666666666,"#ed7953"],[0.7777777777777778,"#fb9f3a"],[0.8888888888888888,"#fdca26"],[1.0,"#f0f921"]],"sequentialminus":[[0.0,"#0d0887"],[0.1111111111111111,"#46039f"],[0.2222222222222222,"#7201a8"],[0.3333333333333333,"#9c179e"],[0.4444444444444444,"#bd3786"],[0.5555555555555556,"#d8576b"],[0.6666666666666666,"#ed7953"],[0.7777777777777778,"#fb9f3a"],[0.8888888888888888,"#fdca26"],[1.0,"#f0f921"]]},"colorway":["#636efa","#EF553B","#00cc96","#ab63fa","#FFA15A","#19d3f3","#FF6692","#B6E880","#FF97FF","#FECB52"],"font":{"color":"#f2f5fa"},"geo":{"bgcolor":"rgb(17,17,17)","lakecolor":"rgb(17,17,17)","landcolor":"rgb(17,17,17)","showlakes":true,"showland":true,"subunitcolor":"#506784"},"hoverlabel":{"align":"left"},"hovermode":"closest","mapbox":{"style":"dark"},"paper_bgcolor":"rgb(17,17,17)","plot_bgcolor":"rgb(17,17,17)","polar":{"angularaxis":{"gridcolor":"#506784","linecolor":"#506784","ticks":""},"bgcolor":"rgb(17,17,17)","radialaxis":{"gridcolor":"#506784","linecolor":"#506784","ticks":""}},"scene":{"xaxis":{"backgroundcolor":"rgb(17,17,17)","gridcolor":"#506784","gridwidth":2,"linecolor":"#506784","showbackground":true,"ticks":"","zerolinecolor":"#C8D4E3"},"yaxis":{"backgroundcolor":"rgb(17,17,17)","gridcolor":"#506784","gridwidth":2,"linecolor":"#506784","showbackground":true,"ticks":"","zerolinecolor":"#C8D4E3"},"zaxis":{"backgroundcolor":"rgb(17,17,17)","gridcolor":"#506784","gridwidth":2,"linecolor":"#506784","showbackground":true,"ticks":"","zerolinecolor":"#C8D4E3"}},"shapedefaults":{"line":{"color":"#f2f5fa"}},"sliderdefaults":{"bgcolor":"#C8D4E3","bordercolor":"rgb(17,17,17)","borderwidth":1,"tickwidth":0},"ternary":{"aaxis":{"gridcolor":"#506784","linecolor":"#506784","ticks":""},"baxis":{"gridcolor":"#506784","linecolor":"#506784","ticks":""},"bgcolor":"rgb(17,17,17)","caxis":{"gridcolor":"#506784","linecolor":"#506784","ticks":""}},"title":{"x":0.05},"updatemenudefaults":{"bgcolor":"#506784","borderwidth":0},"xaxis":{"automargin":true,"gridcolor":"#283442","linecolor":"#506784","ticks":"","title":{"standoff":15},"zerolinecolor":"#283442","zerolinewidth":2},"yaxis":{"automargin":true,"gridcolor":"#283442","linecolor":"#506784","ticks":"","title":{"standoff":15},"zerolinecolor":"#283442","zerolinewidth":2}}},"xaxis":{"anchor":"y","domain":[0.0,0.855],"rangeselector":{"font":{"color":"black"},"buttons":[{"count":1,"label":"1m","step":"month","stepmode":"backward"},{"count":6,"label":"6m","step":"month","stepmode":"backward"},{"count":1,"label":"YTD","step":"year","stepmode":"todate"},{"count":1,"label":"1y","step":"year","stepmode":"backward"},{"step":"all"}]},"rangeslider":{"visible":false,"thickness":0.05},"range":["2023-07-17","2023-09-17"]},"yaxis":{"anchor":"x","domain":[0.376,1.0],"title":{"text":"Change BTC on exchanges"},"side":"left"},"xaxis2":{"anchor":"y2","domain":[0.905,1.0]},"yaxis2":{"anchor":"x2","domain":[0.376,1.0],"title":{"text":"Change BTC over time"},"side":"left"},"xaxis3":{"anchor":"y3","domain":[0.0,0.855],"rangeselector":{"font":{"color":"black"},"buttons":[{"count":1,"label":"1m","step":"month","stepmode":"backward"},{"count":6,"label":"6m","step":"month","stepmode":"backward"},{"count":1,"label":"YTD","step":"year","stepmode":"todate"},{"count":1,"label":"1y","step":"year","stepmode":"backward"},{"step":"all"}]},"rangeslider":{"visible":true,"thickness":0.05},"range":["2023-08-03","2023-09-17"]},"yaxis3":{"anchor":"x3","domain":[0.0,0.15600000000000003],"title":{"text":"BTC (USD)"},"side":"left"},"xaxis4":{"anchor":"y4","domain":[0.905,1.0]},"yaxis4":{"anchor":"x4","domain":[0.0,0.15600000000000003]},"annotations":[{"font":{"color":"grey","family":"Courier New, monospace","size":25},"opacity":0.5,"showarrow":false,"text":"\u003ca href='https:\u002f\u002fcharts.bgeometrics.com'\u003eBGeometrics.com\u003c\u002fa\u003e","x":0.5,"xanchor":"center","xref":"paper","y":0.95,"yanchor":"middle","yref":"paper"}],"legend":{"orientation":"h","x":0.5,"xanchor":"center"},"title":{"text":"Change BTC on exchanges. 19 September 2023\u003cbr\u003e\u003csup\u003eWhen BTC rises on exchanges it means that more investors prefer to sell than buy or that buyers choose to store their assets on exchanges.\u003c\u002fsup\u003e"},"plot_bgcolor":"rgba(0, 0, 0, 0)"},                        {"responsive": true}                    )                };                            </script>        </div>
